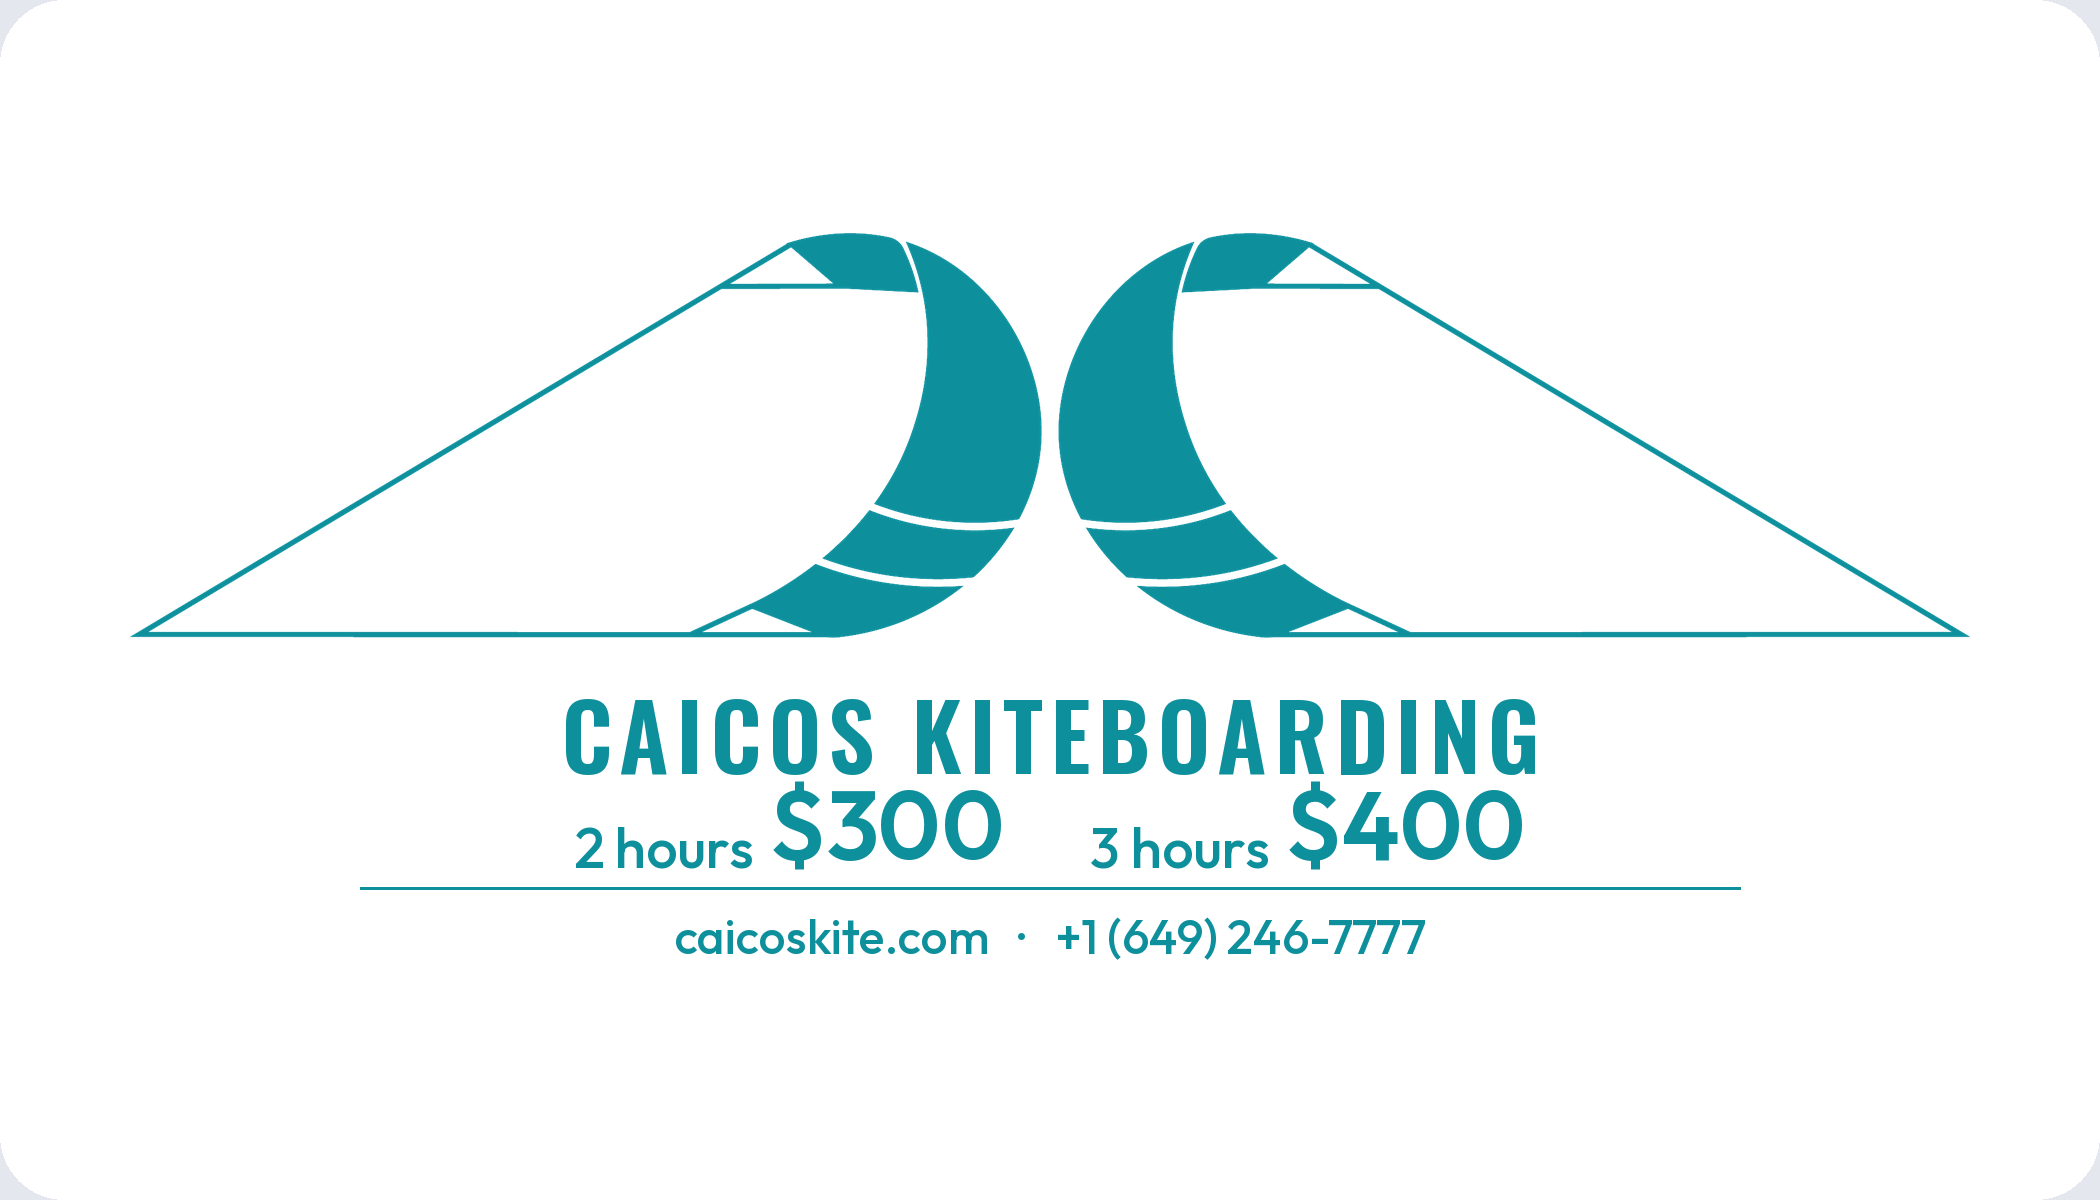
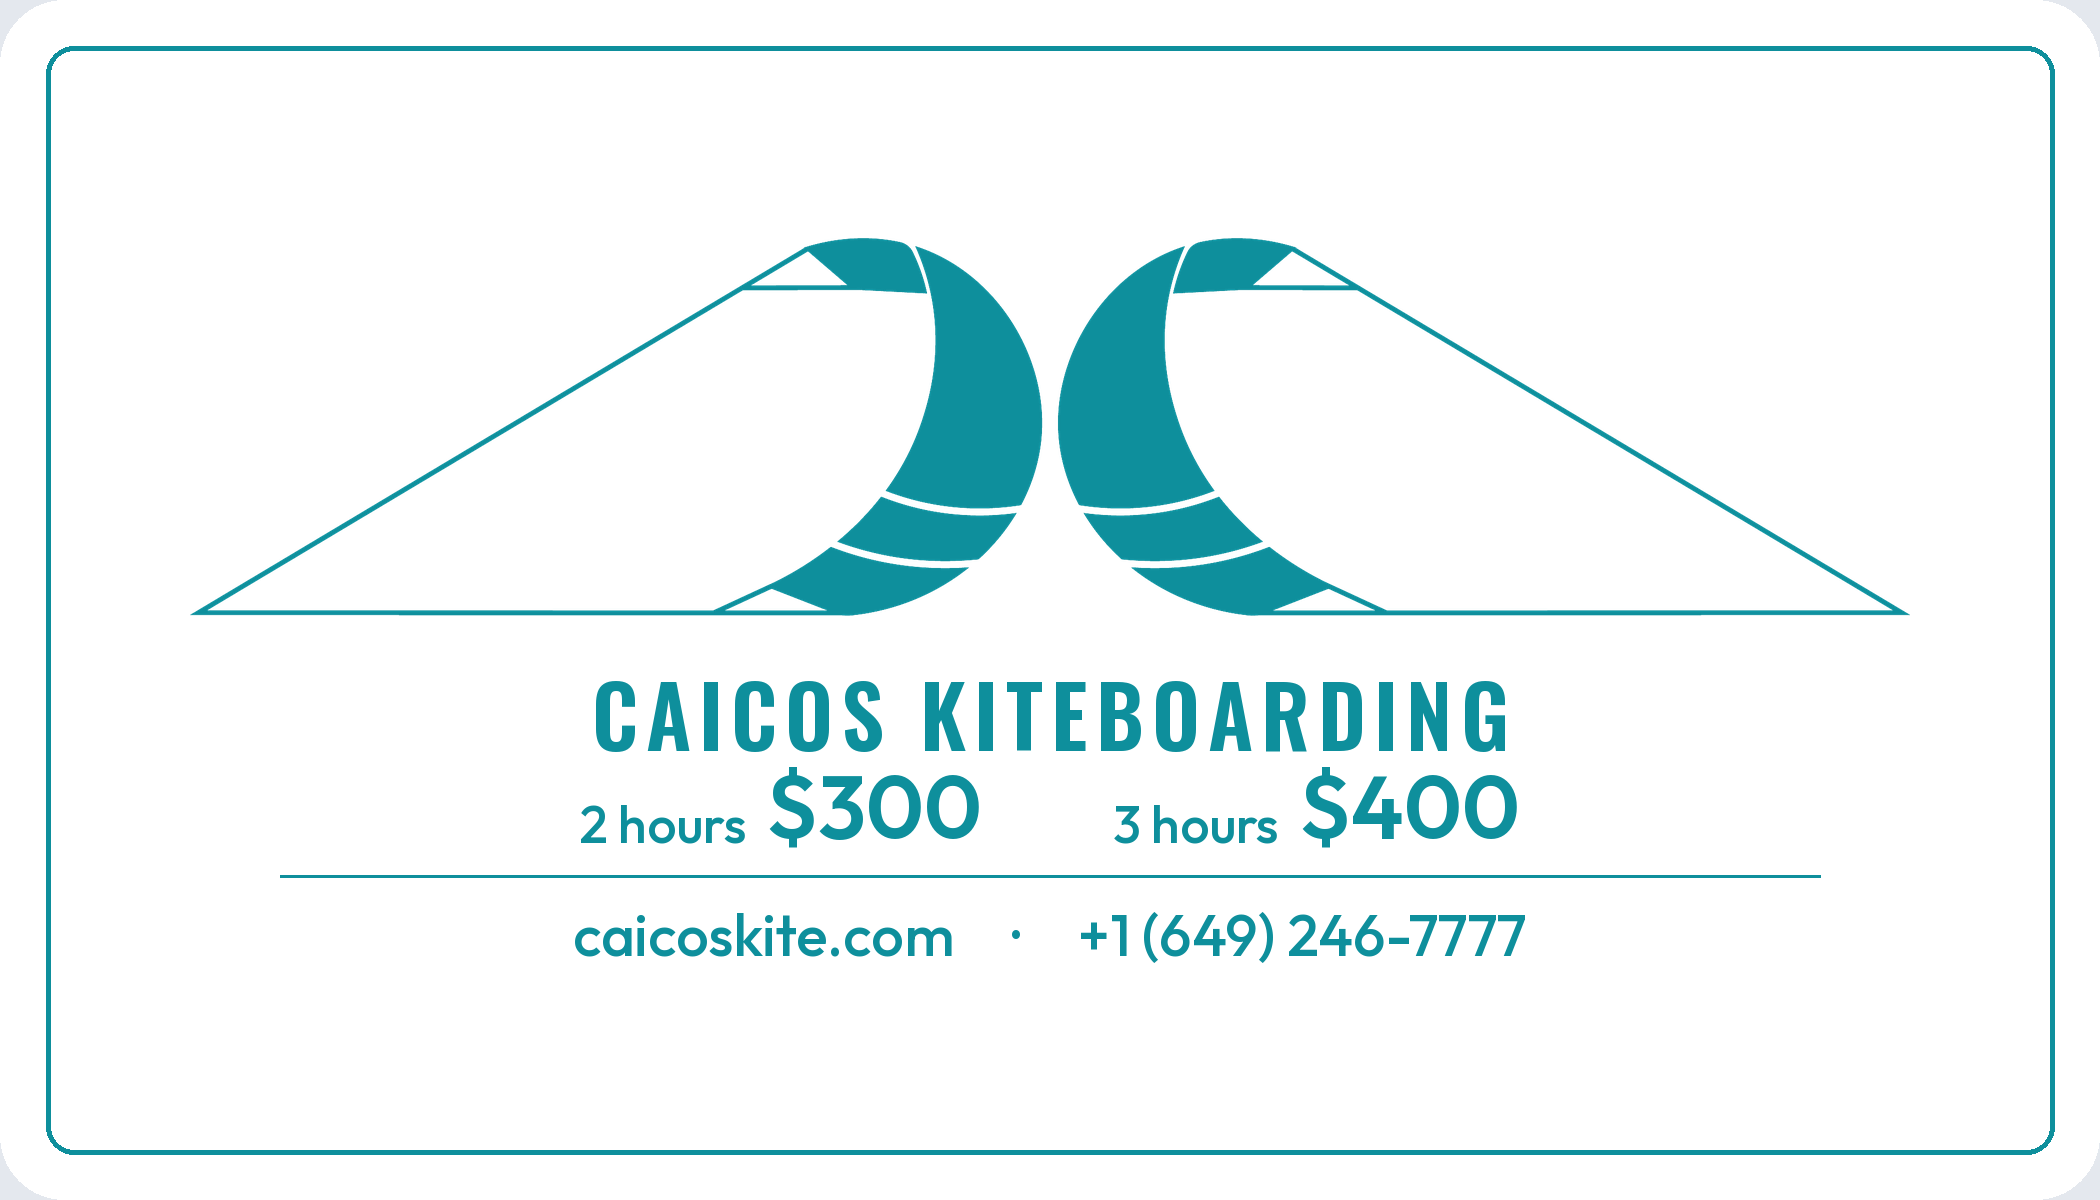
Larger contact line and a thin border on the card

diff --git a/card.html b/card.html
@@ -10,6 +10,6 @@
   </style>
 </head>
 <body>
-  <img src="card.png?v=4" alt="Caicos Kiteboarding card in turquoise." />
+  <img src="card.png?v=5" alt="Caicos Kiteboarding card in turquoise." />
 </body>
 </html>
